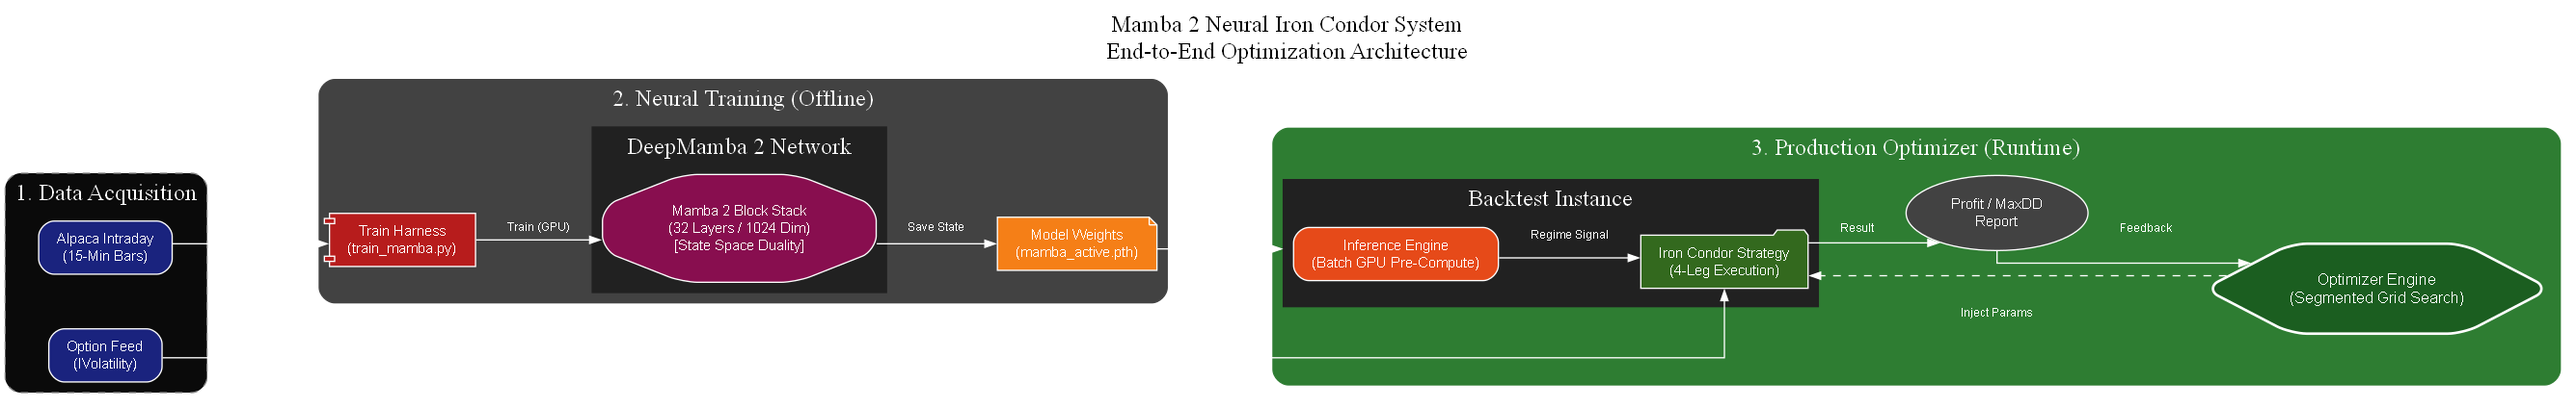
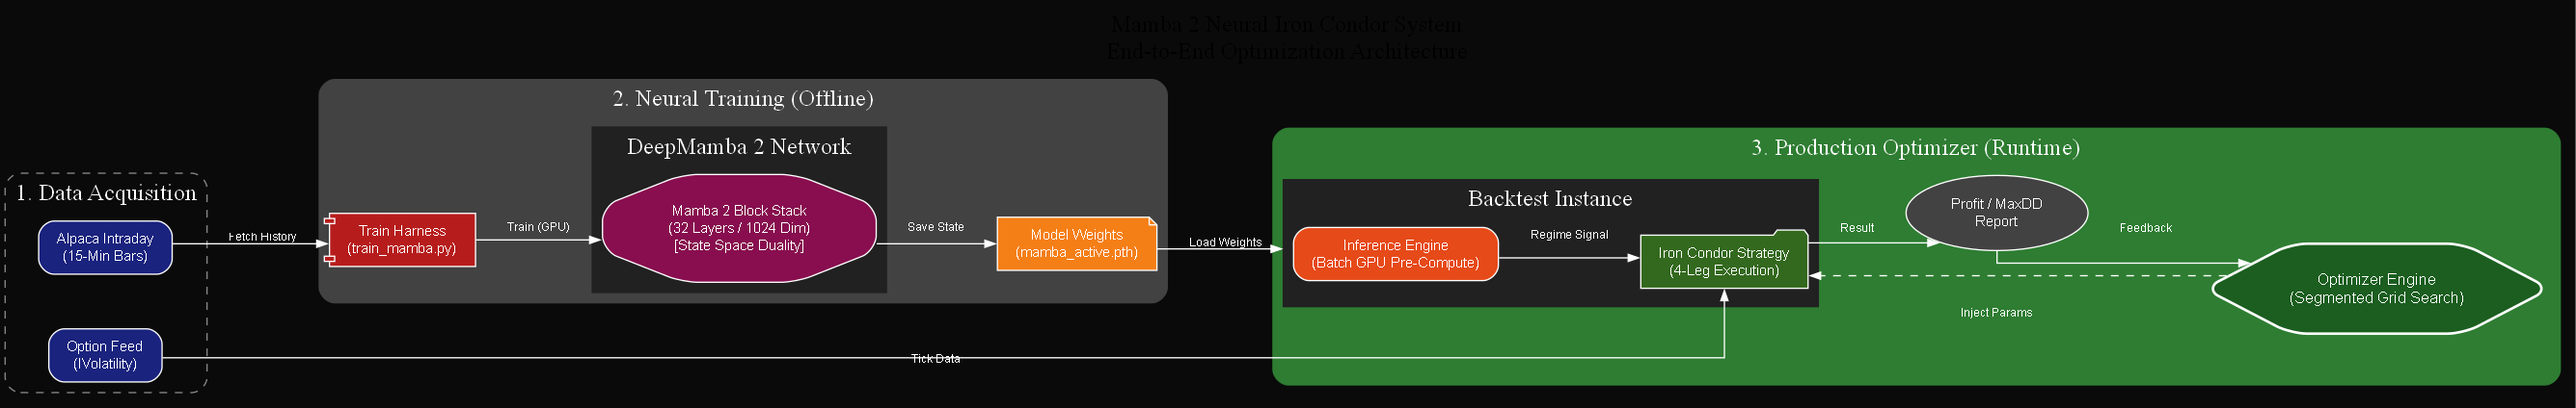
Fix LaTeX formatting in README and update Optimization Diagram to Dark Mode

diff --git a/README.md b/README.md
@@ -384,6 +384,7 @@ Where:
 - $\text{Skew} < 0$: Call skew (rare) → Potential rally risk
 
 **Risk Adjustment**:
+
 $$
 W_{\mathrm{put}} = W_{\mathrm{base}} + \Delta W \cdot \mathbb{1}_{\{\text{Skew} > \theta_{\mathrm{skew}}\}}
 $$
@@ -778,17 +779,27 @@ $$ y(t) = \mathbf{C}h(t) $$
 
 #### Discretization (Zero-Order Hold)
 To process discrete market bars, the parameters are transformed using step size $\Delta$:
-$$ \overline{\mathbf{A}} = \exp(\Delta \mathbf{A}) $$
-$$ \overline{\mathbf{B}} = (\Delta \mathbf{A})^{-1}(\exp(\Delta \mathbf{A}) - \mathbf{I}) \cdot \Delta \mathbf{B} $$
+$$
+\overline{\mathbf{A}} = \exp(\Delta \mathbf{A})
+$$
+$$
+\overline{\mathbf{B}} = (\Delta \mathbf{A})^{-1}(\exp(\Delta \mathbf{A}) - \mathbf{I}) \cdot \Delta \mathbf{B}
+$$
 
 #### Selective Mechanism
 Mamba 2 makes $\Delta, \mathbf{B}, \mathbf{C}$ functions of the input $x_t$, allowing the model to selectively propagate or reset its hidden state based on market volatility:
-$$ \Delta_t = \text{Softplus}(\text{Linear}(x_t)) $$
-$$ \mathbf{B}_t = \text{Linear}(x_t), \quad \mathbf{C}_t = \text{Linear}(x_t) $$
+$$
+\Delta_t = \text{Softplus}(\text{Linear}(x_t))
+$$
+$$
+\mathbf{B}_t = \text{Linear}(x_t), \quad \mathbf{C}_t = \text{Linear}(x_t)
+$$
 
 ### 7.3 Feature Engineering (Input Vector)
 The model consumes advanced features including TDA signatures and Manifold Volatility:
-$$ \vec{V}_t = [ \Delta \log(P_t), \text{RSI}_{norm}, \text{Curvature}, \text{Persistence}_1 ] $$
+$$
+\vec{V}_t = [ \Delta \log(P_t), \text{RSI}_{norm}, \text{Curvature}, \text{Persistence}_1 ]
+$$
 
 ### 7.4 Generative Diffusion Head
 A conditional diffusion module (DDPM) refines the Mamba hidden state into a probabilistic price trajectory (32 steps), capturing uncertainty in high-volatility regimes.
